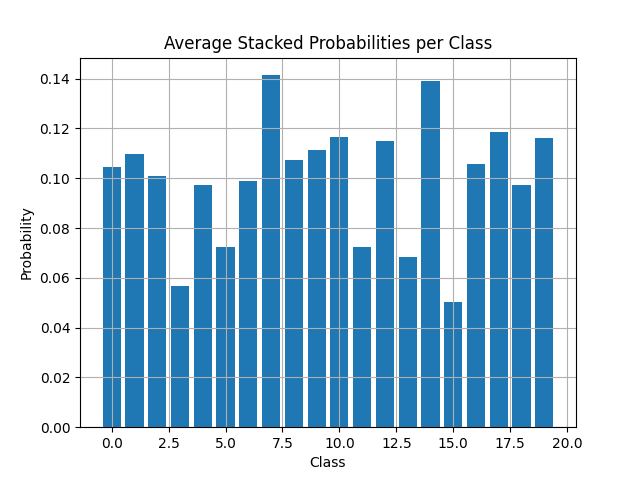
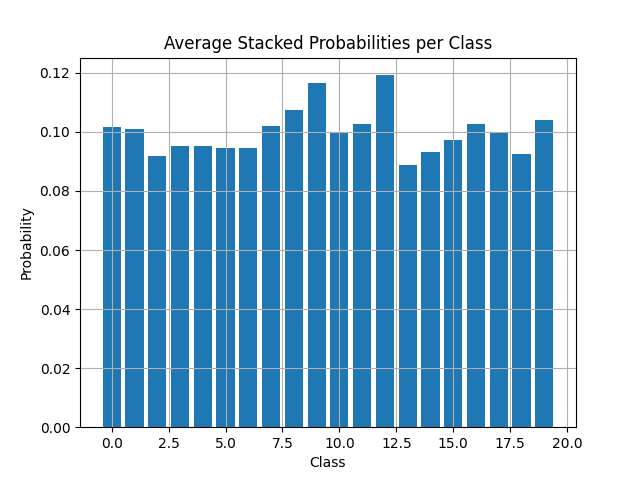
introducing Genetic Algorithm

diff --git a/el-mqtt/optimization.py b/el-mqtt/optimization.py
@@ -1,0 +1,82 @@
+import numpy as np
+from sklearn.metrics import accuracy_score
+import random
+
+
+def run_genetic_algorithm(probs_list, true_labels, population_size=20, generations=50, mutation_rate=0.1):
+    """
+    Otimiza pesos para combinação de vetores de probabilidade usando algoritmo genético.
+
+    Args:
+        probs_list (list of np.ndarray): lista de vetores de probabilidade de diferentes clientes.
+        true_labels (np.ndarray): rótulos verdadeiros.
+        population_size (int): número de indivíduos na população.
+        generations (int): número de gerações.
+        mutation_rate (float): taxa de mutação.
+
+    Returns:
+        np.ndarray: vetor de pesos normalizado que maximizou a acurácia.
+    """
+    num_clients = len(probs_list)
+    num_samples = len(true_labels)
+
+    # Geração inicial aleatória (pesos somando 1)
+    def random_weights():
+        w = np.random.rand(num_clients)
+        return w / np.sum(w)
+
+    population = [random_weights() for _ in range(population_size)]
+
+    def fitness(weights):
+        # Combina os vetores de probabilidade usando pesos
+        combined = np.zeros_like(probs_list[0])
+        for i in range(num_clients):
+            combined += weights[i] * np.array(probs_list[i])
+        predicted = np.argmax(combined.reshape((num_samples, -1)), axis=1)
+        return accuracy_score(true_labels, predicted)
+
+    for _ in range(generations):
+        # Avaliar fitness
+        scored_population = [(ind, fitness(ind)) for ind in population]
+        scored_population.sort(key=lambda x: x[1], reverse=True)
+
+        # Seleção dos melhores (elitismo + roleta)
+        elites = [ind for ind, score in scored_population[:5]]
+        new_population = elites[:]
+
+        while len(new_population) < population_size:
+            # Seleção por torneio
+            p1, p2 = random.sample(elites, 2)
+            crossover_point = random.randint(1, num_clients - 1)
+            child = np.concatenate((p1[:crossover_point], p2[crossover_point:]))
+            if random.random() < mutation_rate:
+                mutation_idx = random.randint(0, num_clients - 1)
+                child[mutation_idx] = random.random()
+            child = child / np.sum(child)  # normalizar
+            new_population.append(child)
+
+        population = new_population
+
+    # Melhor indivíduo após todas as gerações
+    best_individual = max(population, key=fitness)
+    return best_individual
+
+def evaluate_weighted_probs(probs_list, weights, true_labels):
+    """
+    Combina vetores de probabilidade usando pesos e calcula a acurácia final.
+
+    Args:
+        probs_list (list of np.ndarray): Lista com vetores de probabilidade (n_amostras x n_classes).
+        weights (np.ndarray): Pesos normalizados (ex: [0.4, 0.6]).
+        true_labels (np.ndarray): Rótulos verdadeiros (ex: [0, 1, 2, ...]).
+
+    Returns:
+        float: Acurácia final após combinação.
+    """
+    combined = np.zeros_like(probs_list[0])
+    for i, probs in enumerate(probs_list):
+        combined += weights[i] * np.array(probs)
+    
+    preds = np.argmax(combined, axis=1)
+    acc = accuracy_score(true_labels, preds)
+    return acc

diff --git a/el-mqtt/server_el-mqtt.py b/el-mqtt/server_el-mqtt.py
@@ -9,6 +9,7 @@ import os
 import matplotlib.pyplot as plt
 import seaborn as sns
 from sklearn.model_selection import train_test_split
+from optimization import run_genetic_algorithm, evaluate_weighted_probs
 
 # Argumentos via CLI
 parser = argparse.ArgumentParser()
@@ -35,6 +36,41 @@ message_counts = []
 os.makedirs("results", exist_ok=True)
 
 start_times = {}
+
+
+def aggregate_with_GA(round_id):
+    print(f"[GA] Verificando se todos os clientes enviaram para a rodada {round_id}...")
+    clients_received = received_probs.get(round_id, {})
+    for c in expected_clients:
+        print(f"[GA] - {c}: {len(clients_received.get(c, []))} mensagens")
+
+    ready = all(len(clients_received.get(c, [])) >= 1 for c in expected_clients)
+    if not ready:
+        print(f"[GA] ⏳ Ainda aguardando mensagens...")
+        return
+
+    print(f"[GA] ✅ Todos os clientes da rodada {round_id} enviaram. Realizando stacking...")
+
+    t_start = time.time()
+
+    probs_list = []
+    for client in sorted(expected_clients):
+        client_data = clients_received[client][0]
+        probs = np.array(client_data["probs"])
+        probs_list.append(probs)
+
+    X_stack = np.concatenate(probs_list, axis=1)
+    y_stack = np.array(clients_received[sorted(expected_clients)[0]][0]["labels"])
+
+    print(f"[GA] Forma da matriz X empilhada: {X_stack.shape}")
+    print(f"[GA] Rótulos únicos: {set(y_stack)}")
+
+    best_weights = run_genetic_algorithm(probs_list, clients_received[sorted(expected_clients)[0]][0]["labels"])
+    acc = evaluate_weighted_probs(probs_list, best_weights, clients_received[sorted(expected_clients)[0]][0]["labels"])
+    duration  = time.time() - t_start
+    print(f"[GA - RESULT] - Time Enlapsed: {duration:.3f} Acurácia final com pesos genéticos: {acc:.4f}")
+
+
 
 def try_aggregate(round_id):
     print(f"[AGG] Verificando se todos os clientes enviaram para a rodada {round_id}...")
@@ -189,7 +225,9 @@ def on_message(client, userdata, msg):
     received_probs[round_id][client_id].append({"probs": probs, "labels": labels})
     print(f"[MSG] Total de mensagens de {client_id} na rodada {round_id}: {len(received_probs[round_id][client_id])}")
 
-    try_aggregate(round_id)
+
+    aggregate_with_GA(round_id)
+    #try_aggregate(round_id)
 
 def on_connect(client, userdata, flags, rc):
     print(f"🔗 Conectado ao broker (rc={rc})")
